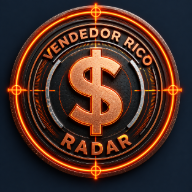
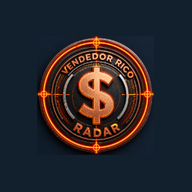
Adiciona zona de segurança nos ícones para ícones adaptáveis do Android
O badge preenchia 93-94% do canvas, quase colado na borda. O Android
recorta ícones maskable com formas variadas (círculo, squircle etc.)
que cortam para dentro do canvas, cortando o anel externo do badge.
Regera os ícones com o badge ocupando ~62% do canvas, dentro da zona
seguro recomendada, testado com recorte circular completo.

diff --git a/sw.js b/sw.js
@@ -1,4 +1,4 @@
-const CACHE_NAME = 'radar-vendedor-rico-v3';
+const CACHE_NAME = 'radar-vendedor-rico-v4';
 const urlsToCache = [
   './index.html',
   './manifest.json',
